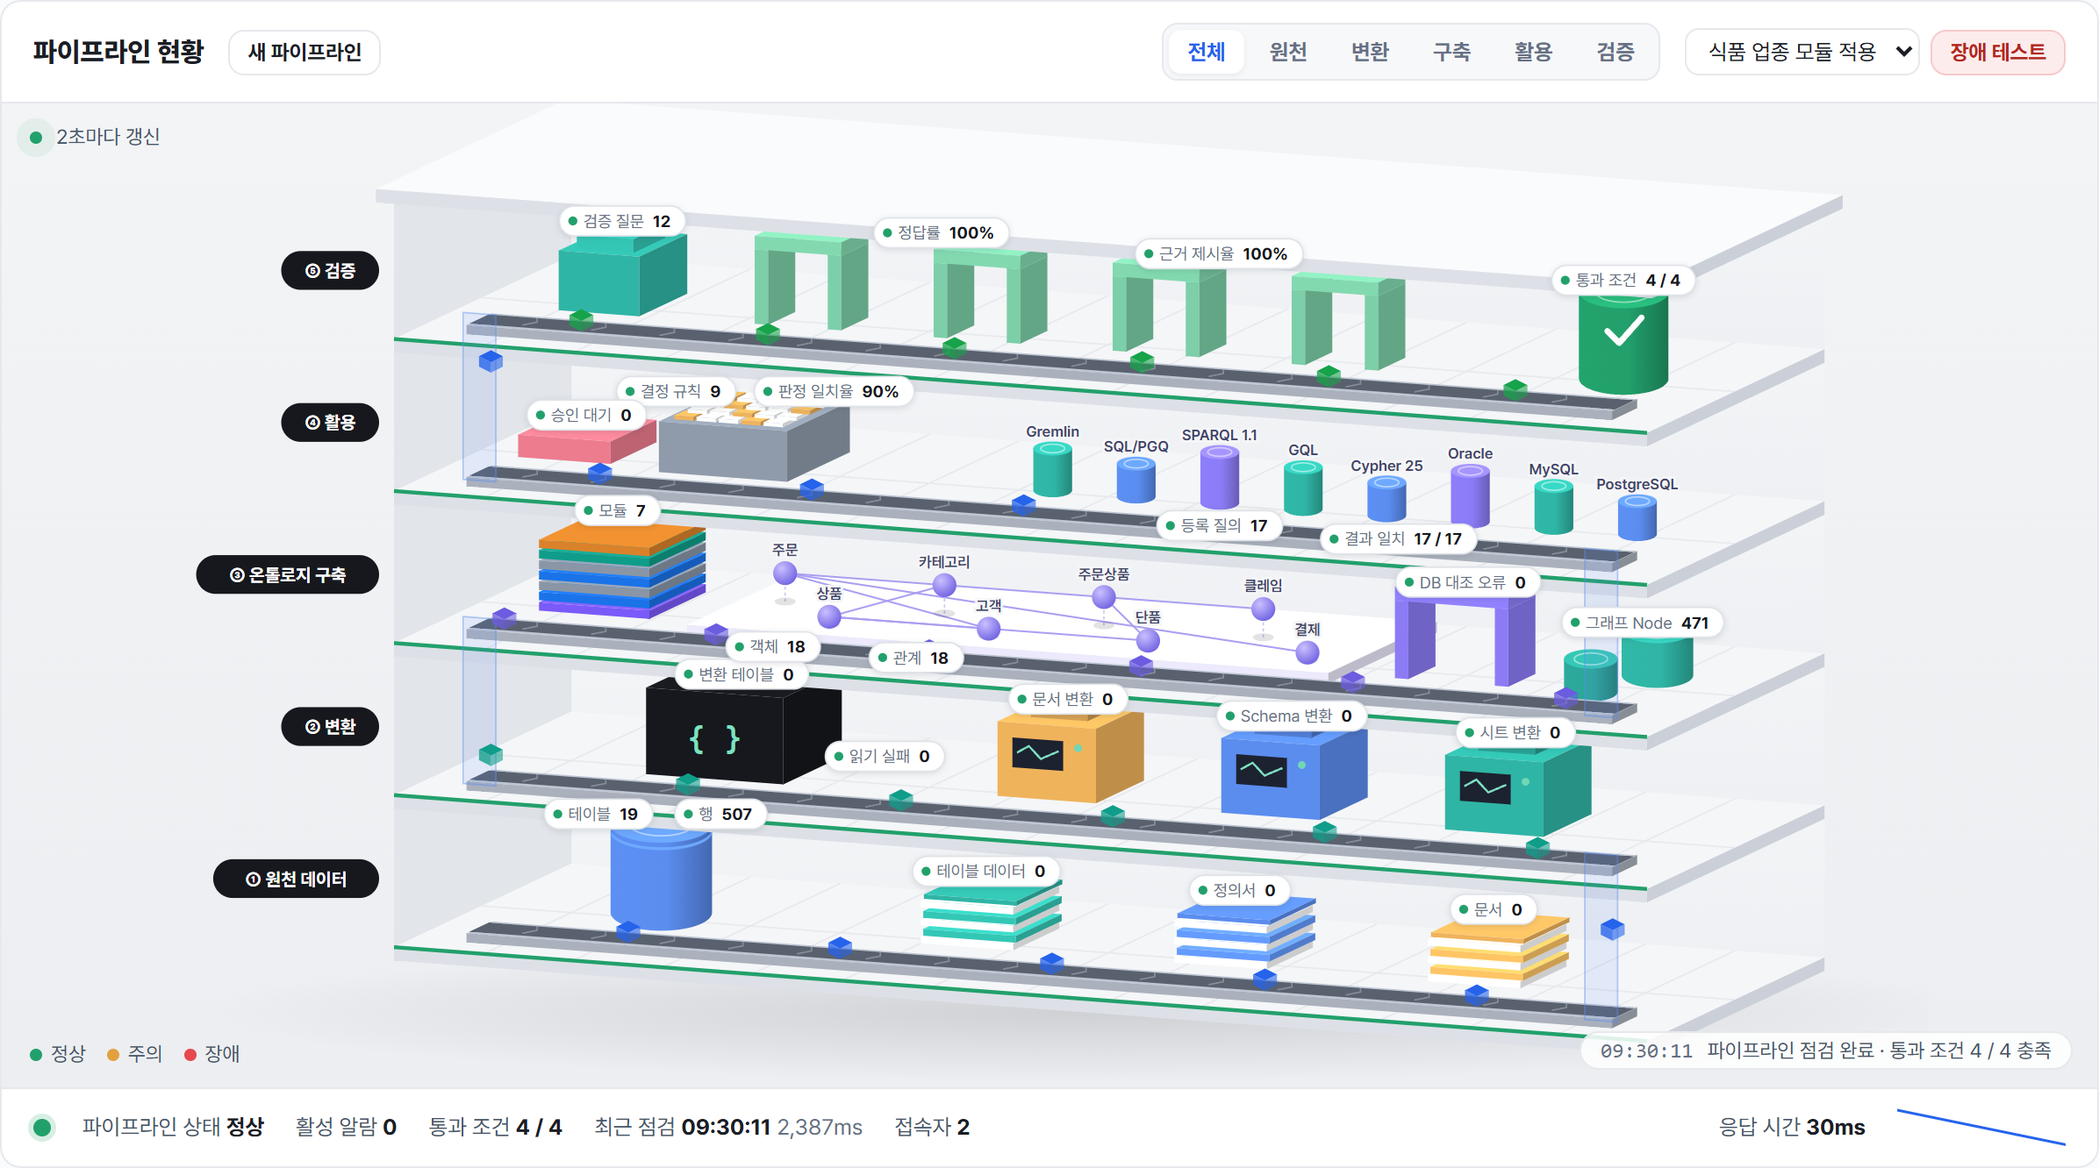
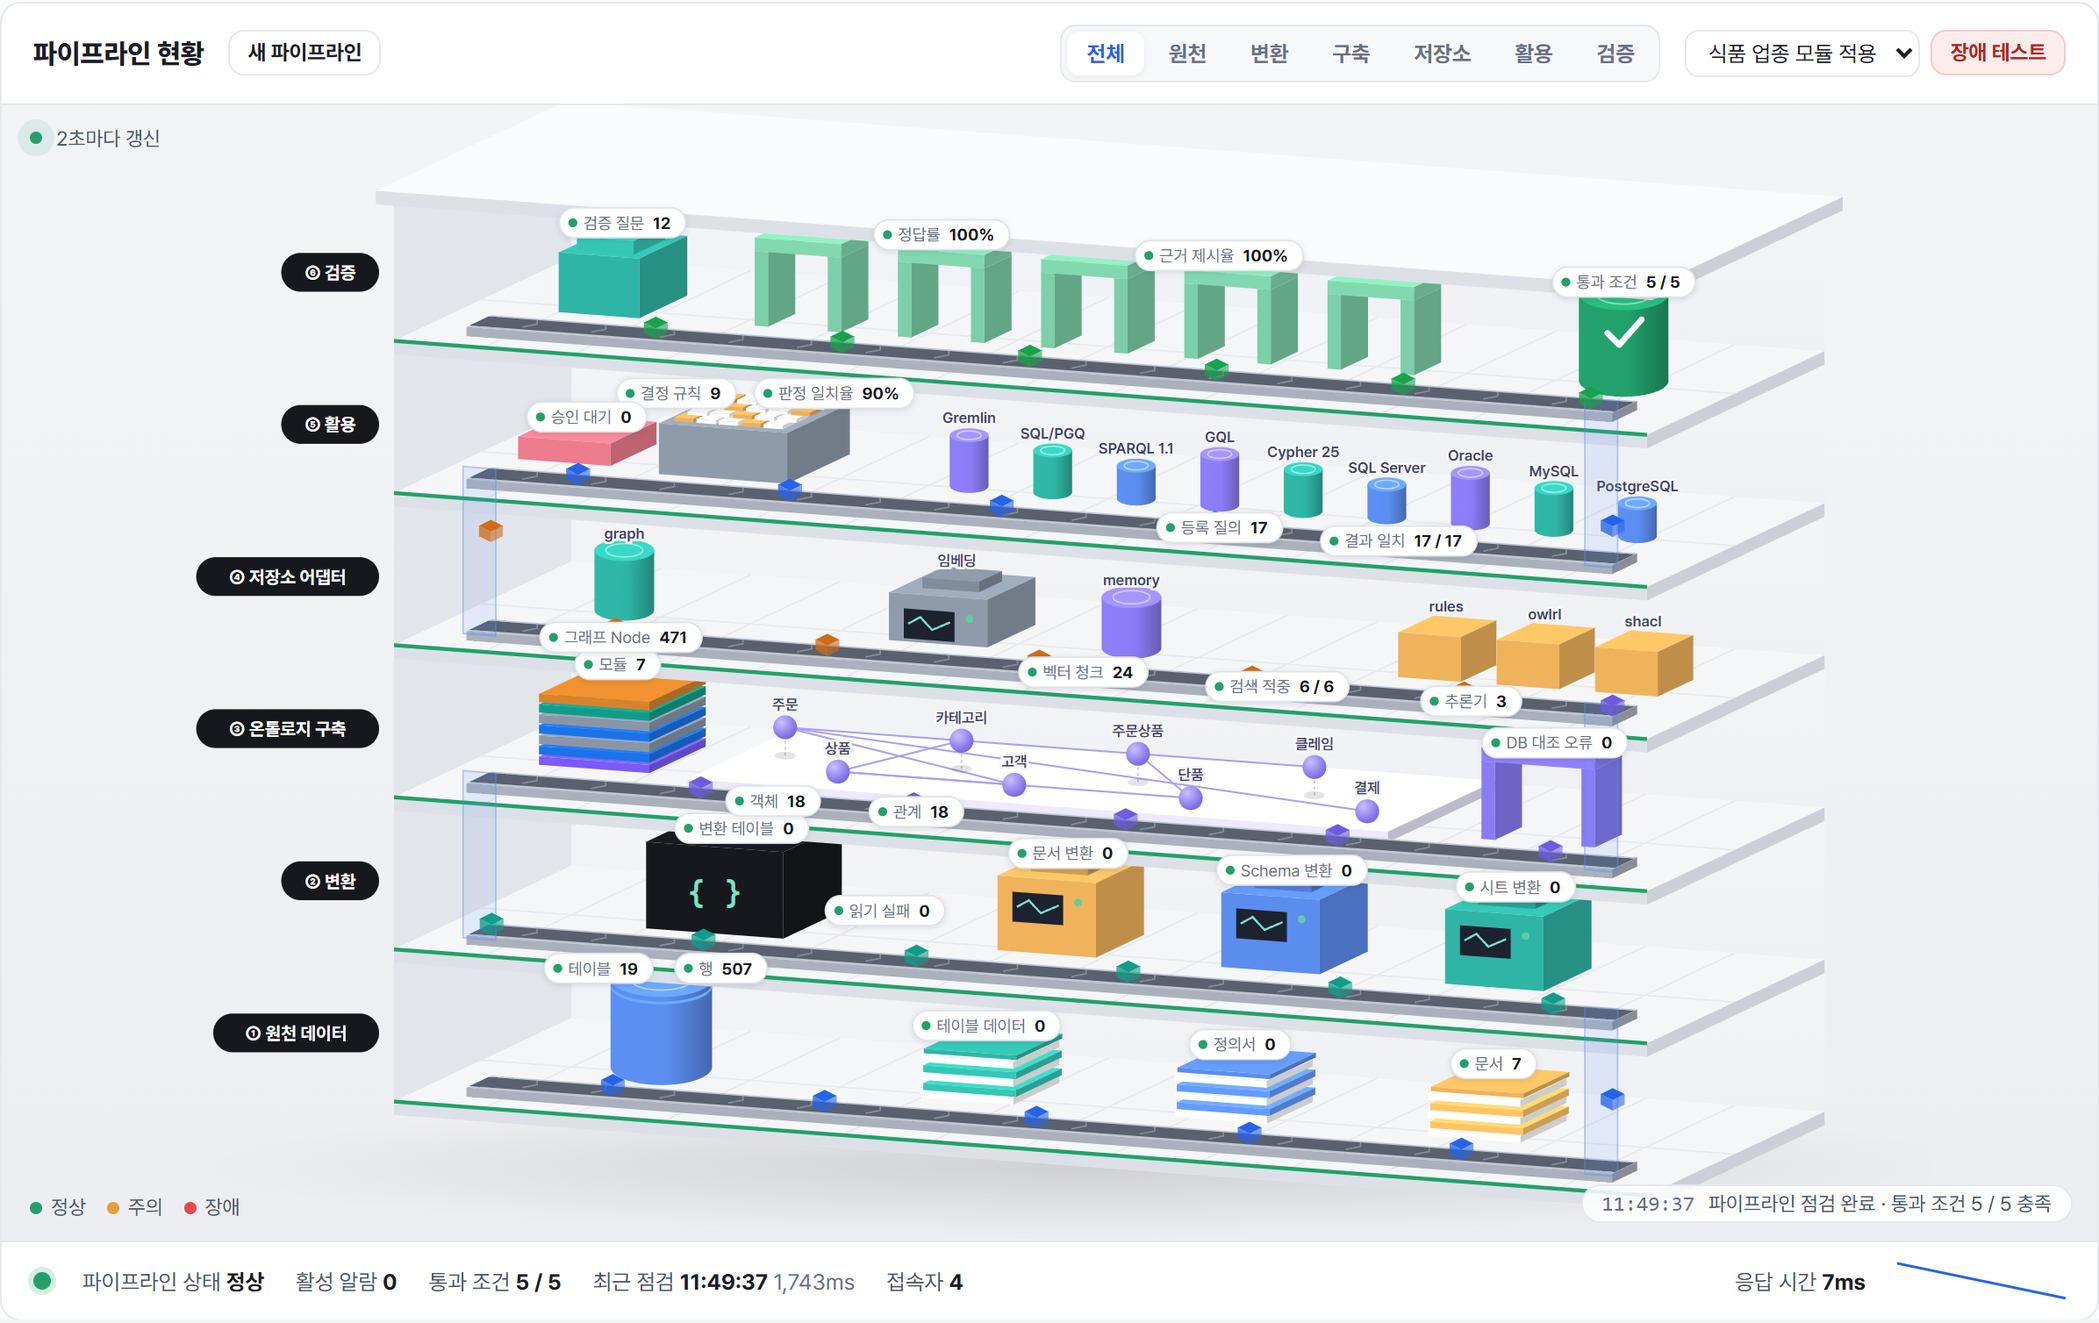
Order a search by the model and the question's own words, and show the new screens
A model's nearest passage was not always the one that says it: on the six example questions the right document came first
for four. A search now takes four times what it returns from the store and orders those by the model's score and the share
of the question's wording, which put all six first. Stores are still compared on the model alone.

The pictures showed the rest: the embedding label sat under the floor above, the active menu item could hide under the
footer, graph labels crowded each other. The README has the new screens, install extras, rule features and live servers.

diff --git a/src/xgen_space/web/static/app.js b/src/xgen_space/web/static/app.js
@@ -366,7 +366,15 @@
       return `<div class="ngroup"><button class="navg" data-act="navg" data-i="${i}" aria-expanded="${!shut}"><span>${no ? `<em>${no}</em> ` : ''}${h}${tag}</span>${ui('chevron')}</button>${shut ? '' : keys.map(link).join('')}</div>`;
     }).join('');
     const foot = `<div class="sfoot"><b>${esc(st.title)}</b><span>모듈 ${st.modules_on}개</span>${st.backends.map((b) => `<span class="be"><i class="dot"></i>${esc(b.name)} · ${esc(b.language.toUpperCase())}</span>`).join('')}</div>`;
+    const nav = $('#side .snav');
+    const kept = nav ? nav.scrollTop : 0;
     $('#side').innerHTML = `${BRAND}<div class="snav">${groups}</div>${foot}`;
+    $('#side .snav').scrollTop = kept;
+    if (S.tab !== renderSide.tab) {
+      renderSide.tab = S.tab;
+      const on = $('#side .nav.on');
+      if (on) on.scrollIntoView({ block: 'nearest' });
+    }
     $('#app').classList.toggle('slim', S.slim);
   }
 

diff --git a/src/xgen_space/web/static/graph.js b/src/xgen_space/web/static/graph.js
@@ -410,7 +410,7 @@ window.SpaceGraph = (function () {
         nodeProgramClasses: { border: Border }, edgeProgramClasses: { curved: kit.createEdgeCurveProgram({ arrowHead: { extremity: 'target', lengthToThicknessRatio: 6.5, widenessToThicknessRatio: 4.6 } }) },
         renderEdgeLabels: true, labelFont: 'Pretendard, "Malgun Gothic", sans-serif', labelSize: 12, labelWeight: '600',
         labelColor: { color: '#1b2330' }, edgeLabelFont: 'Pretendard, "Malgun Gothic", sans-serif', edgeLabelSize: 10.5, edgeLabelWeight: '500',
-        edgeLabelColor: { color: '#5b6675' }, labelGridCellSize: 70, labelDensity: 1.4,
+        edgeLabelColor: { color: '#5b6675' }, labelGridCellSize: 110, labelDensity: 1,
         labelRenderedSizeThreshold: prefs.nodeLabels || graph.order <= LABELS_ALL ? 0 : 11,
         minCameraRatio: 0.06, maxCameraRatio: 4, ...reducers(st),
       });

diff --git a/src/xgen_space/web/static/scene.js b/src/xgen_space/web/static/scene.js
@@ -118,7 +118,7 @@ window.SpaceScene = (() => {
       const word = (x, h, t) => { const [lx, ly] = P(x, 92, z + h + 8); return `<text x="${lx}" y="${ly}" text-anchor="middle" class="glabel">${esc(t)}</text>`; };
       let out = '';
       s.graphs.forEach((g, i) => { const x = 90 + i * 62; out += cyl(x, 92, z, 20, 40, C.teal) + word(x, 40, g); });
-      out += machine(280, 74, z, C.slate, 44) + word(313, 50, '임베딩');
+      out += machine(280, 74, z, C.slate, 32) + word(313, 38, '임베딩');
       s.vectors.forEach((g, i) => { const x = 430 + i * 62; out += cyl(x, 92, z, 20, 34, C.violet) + word(x, 34, g); });
       s.reasoners.forEach((g, i) => { const x = 620 + i * 66; out += box(x, 76, z, 42, 34, 30, C.amber) + word(x + 21, 32, g); });
       return out;

diff --git a/tools/render_screens.py b/tools/render_screens.py
@@ -1,10 +1,10 @@
 """Render the README images: the studio screens from the example studio, and the architecture figure.
 
-    python tools/render_screens.py            # needs playwright with chromium installed
+    python tools/render_screens.py            # needs playwright with chromium installed, and the [all] and [embed] extras
 
 Writes assets/screens/{library,query,decision,map}.png from `xspace preview`,
-assets/screens/{monitor,ontology,catalog,manage,draft}.png from `xspace serve` with the example files, and assets/architecture.png, all
-at 2x.
+assets/screens/{monitor,ontology,catalog,manage,draft,space-map,documents,search,adapters}.png from `xspace serve` with the
+example files, and assets/architecture.png, all at 2x.
 """
 from __future__ import annotations
 
@@ -28,7 +28,7 @@ from xgen_space.web.server import serve  # noqa: E402
 
 
 def _serve(config: Path, samples: Path) -> str:
-    data = DataOptions(samples=samples)
+    data = DataOptions(samples=samples, embedder={"kind": "fastembed"})
     with socket.socket() as s:
         s.bind(("127.0.0.1", 0))
         port = s.getsockname()[1]
@@ -76,6 +76,27 @@ def live_screens(page, base: str, out: Path) -> None:
     page.evaluate("document.fonts.ready")
     page.wait_for_timeout(400)
     page.locator("#draft").screenshot(path=str(out / "draft.png"))
+    page.goto(base + "/#map")
+    page.wait_for_selector("#mapgraph .kg-stage canvas", timeout=30000)
+    page.wait_for_timeout(1500)
+    page.screenshot(path=str(out / "space-map.png"))
+    page.goto(base + "/#docs")
+    page.wait_for_selector("#docgraph .kg-stage canvas", timeout=30000)
+    page.wait_for_timeout(1500)
+    page.screenshot(path=str(out / "documents.png"))
+    page.goto(base + "/#search")
+    page.wait_for_selector("[data-act=srex]", timeout=30000)
+    page.locator("[data-act=srex]").first.click()
+    page.wait_for_function("() => !document.querySelector('#main .spin') && document.querySelectorAll('#main .card').length > 1", timeout=30000)
+    page.wait_for_timeout(500)
+    page.screenshot(path=str(out / "search.png"))
+    page.goto(base + "/#adapters")
+    page.wait_for_selector("[data-act=adcheck]")
+    page.click("[data-act=adcheck]")
+    page.wait_for_function("() => !document.querySelector('[data-act=adcheck]').disabled", timeout=60000)
+    page.wait_for_function("() => document.getElementById('toast').hidden", timeout=8000)
+    page.wait_for_timeout(400)
+    page.screenshot(path=str(out / "adapters.png"))
 
 
 def main() -> None:

diff --git a/src/xgen_space/space.py b/src/xgen_space/space.py
@@ -19,7 +19,7 @@ from dataclasses import asdict, dataclass
 from pathlib import Path
 from typing import Any
 
-from xgen_space.embed import Embedder, open_embedder
+from xgen_space.embed import Embedder, open_embedder, shared_wording
 from xgen_space.vectors import MemoryStore, Point, VectorError, VectorStore, open_vector_store
 
 CHUNK = 520  # characters: a paragraph or two, what a person reads as one passage
@@ -203,6 +203,10 @@ DOCUMENT_MODULE = {
 }
 
 
+WIDER = 4  # a model's nearest passage is not always the one that says it, so a search looks at more than it returns
+WORDING = 0.3  # the share of the question's own words in the order; the model keeps the rest
+
+
 class Space:
     """Documents, one embedder and any number of vector stores. Every store holds the same chunks, so one can replace another
     and a question can be asked of all of them at once."""
@@ -302,8 +306,15 @@ class Space:
         if name not in self.stores:
             raise LookupError(f"벡터 저장소 {name}")
         vector = self.embedder.embed([text])[0]
-        return [{"id": h.id, "score": round(h.score, 4), "document": h.payload.get("document", ""), "section": h.payload.get("section", ""),
-                 "text": h.payload.get("text", ""), "store": name} for h in self.stores[name].search(self.collection, vector, k, where)]
+        semantic = self.embedder.semantic  # a wording embedder has counted the words already
+        found = self.stores[name].search(self.collection, vector, max(k * WIDER, k) if semantic else k, where)
+        hits = [{"id": h.id, "score": round(h.score, 4), "document": h.payload.get("document", ""), "section": h.payload.get("section", ""),
+                 "text": h.payload.get("text", ""), "store": name} for h in found]
+        if semantic:
+            for h in hits:
+                h["score"] = round((1 - WORDING) * h["score"] + WORDING * shared_wording(text, h["text"]), 4)
+            hits.sort(key=lambda h: -h["score"])  # stable: a tie stays in the store's order
+        return hits[:k]
 
     def compare(self, text: str, k: int = 5) -> dict:
         """The same question to every store, each with its own answer and how long it took."""

diff --git a/tests/test_vectors.py b/tests/test_vectors.py
@@ -346,3 +346,28 @@ def test_live_space_on_a_real_store():
     assert s.compare("운송장 번호", 3)["same"]
     s.stores["qdrant"].drop(s.collection)
     assert urllib.request.urlopen(value + "/collections", timeout=5).status == 200
+
+
+def test_the_question_s_own_words_settle_what_a_model_found_close():
+    class Near(HashEmbedder):
+        semantic = True  # says it reads meaning, and puts the wrong passage first
+
+        def embed(self, texts):
+            return [[1.0, 0.0] if "숨김" in t or "돌려" in t else [0.9, 0.44] for t in texts]
+
+    near = Near(256)
+    near.dim = 2
+    s = Space(near)
+    s.add({"id": "a", "name": "상품평", "text": "욕설이 들어간 상품평은 숨김 처리합니다."})
+    s.add({"id": "b", "name": "반품", "text": "포장을 뜯은 속옷은 반품할 수 없습니다."})
+    hits = s.search("포장을 뜯은 속옷도 돌려보낼 수 있나요", k=2)
+    assert [h["document"] for h in hits] == ["반품", "상품평"]
+    assert hits[0]["score"] > hits[1]["score"] and all(0 <= h["score"] <= 1 for h in hits)
+    assert s.compare("포장을 뜯은 속옷도 돌려보낼 수 있나요", k=2)["same"]  # the stores are still compared on the model alone
+
+
+def test_a_search_returns_what_it_was_asked_for_however_far_it_looked():
+    s = Space(HashEmbedder(256))
+    for i in range(8):
+        s.add({"id": f"d{i}", "name": f"문서{i}", "text": f"반품 기간 {i}일 안내입니다."})
+    assert len(s.search("반품 기간", k=3)) == 3

diff --git a/src/xgen_space/web/api.py b/src/xgen_space/web/api.py
@@ -1257,7 +1257,7 @@ class StudioSession(SpaceMixin):
         else:
             path = dsn[len("sqlite:///"):] if dsn.startswith("sqlite:///") else dsn
             if not Path(path).is_file():
-                raise ValueError("연결 주소를 확인할 수 없어 연결하지 못했습니다. postgresql://, mysql://, oracle://, mssql://, mssql:// "
+                raise ValueError("연결 주소를 확인할 수 없어 연결하지 못했습니다. postgresql://, mysql://, oracle://, mssql:// "
                                  "주소 또는 SQLite 파일 경로를 입력해 주세요.")
             b = open_backend({"kind": "sqlite", "path": str(Path(path).resolve())}, Path("."))
             where = f"SQLite {Path(path).name}"

diff --git a/src/xgen_space/embed.py b/src/xgen_space/embed.py
@@ -25,6 +25,15 @@ class EmbedError(RuntimeError):
     """The model could not be reached or answered with something that is not vectors."""
 
 
+def shared_wording(question: str, passage: str) -> float:
+    """How much of a question's wording a passage has, from 0 to 1. Pieces of two letters, so 뜯은 meets 뜯어 and a particle does not hide a word."""
+    def pieces(text: str) -> set[str]:
+        return {w[i:i + 2] for w in _WORD.findall(text.lower()) for i in range(max(len(w) - 1, 1))}
+
+    asked = pieces(question)
+    return len(asked & pieces(passage)) / len(asked) if asked else 0.0
+
+
 class Embedder:
     kind = ""
     name = ""

diff --git a/README.md b/README.md
@@ -103,7 +103,7 @@ xspace draft --dsn "$XSPACE_DSN" --name shop -o my-studio                       
 xspace serve my-studio/studio.yaml
 ```
 
-A database needs `pip install -e ".[postgres]"` (or `[mysql]`, `[oracle]`). A draft reads every table in full to
+A database needs `pip install -e ".[postgres]"` (or `[mysql]`, `[oracle]`, `[mssql]`). A draft reads every table in full to
 profile it, so point it at a copy or a replica with a read-only account, not at a busy production database.
 
 **3. Check it.**
@@ -297,6 +297,10 @@ form for one says so before it runs.
 
 ## Swap anything: the ports
 
+<p align="center">
+  <img src="assets/screens/adapters.png" alt="Adapters screen: every swappable part, with the tests that say a swap changed nothing" width="100%">
+</p>
+
 Every part a deployment might want different is a port with a small interface, a registry, and a test that says the swap
 changed nothing.
 
@@ -331,6 +335,16 @@ A document that comes in, through the catalog or `space.documents`, goes two way
 
 - **Vectors.** It is cut at sections and sentences, embedded, and written to every vector store. Only what changed is embedded; a store that missed a round catches up on the next one.
 - **Document ontology.** It becomes rows of document, section and concept. Concepts are the names the definitions give (objects, properties, allowed values, decisions, glossary terms) plus the words a document keeps returning to, found without a model. The rows run on the same engine as the domain ontology, so the same compilers and the same conformance apply.
+
+<table>
+  <tr>
+    <td width="50%"><img src="assets/screens/documents.png" alt="Document ontology screen: documents, sections and concepts as a graph, tied to the definitions they mention"></td>
+    <td width="50%"><img src="assets/screens/search.png" alt="Search screen: passages found by meaning, with the definitions they name"></td>
+  </tr>
+</table>
+
+A search takes more passages from the store than it returns and orders them by the model's score and the question's own
+words, since the nearest passage to a model is not always the one that says it.
 
 Concepts tie the two together. `xspace search` returns the passages and the definitions a question names, the object screen
 shows the sections that mention an object, and the map shows which queries a document touches. Relations between concepts are
@@ -646,6 +660,22 @@ studio.run("myOrders", role="customer_agent", principal={"customer_id": "C001"})
 Decision tables export to GoRules JDM (`decide.zen.to_jdm`) and run on the ZEN engine when `use_zen=True`;
 the tests check that ZEN and the built-in engine agree on every case.
 
+Rules stay readable as they grow. All of this is in the module file, and the 규칙 · 지표 screen shows it:
+
+| In a module | What it does |
+|---|---|
+| `hit_policy: priority` | The highest rule wins, and the answer says which rules it overrode |
+| `parameters` | One named value, read as `@name` by rules and expressions; a customer module changes it alone |
+| `metrics` | A number with its formula, denominator, time basis and owner |
+| `conflicts` | Two sources that disagree stay open until a person picks one, and the pick is reviewed like any change |
+| transitions | A state change with a guard, side effects and `after`; an action is asked again right before it runs |
+| `view` | An object defined by a query, in the source, or carried along with `inline: true` where the source cannot be written |
+| `format: YYYYMMDD` | Dates kept as text read as dates |
+| `period`, `current(link.prop)` | The row valid now, out of rows valid for a period |
+| scoped roles | Reads and writes limited to the signed-in organisation, closed when the scope is missing |
+
+Each decision table is also read for what it leaves open: overlaps, rules that can never apply, and inputs no rule covers.
+
 Actions check what is given (`{type, required, min, max, values, pattern, max_length}` per parameter), and may send
 an external request after the change is written, only to hosts the studio file allows (`actions: {call_hosts:
 [...]}`); a failed request puts the row back. An executed action can be rolled back, if nothing has changed the row
@@ -765,6 +795,10 @@ change set.
 
 ## The data map
 
+<p align="center">
+  <img src="assets/screens/space-map.png" alt="Space map screen: files, tables, documents, vector stores, objects and queries as one graph, with a side panel for the picked node" width="100%">
+</p>
+
 ```python
 from xgen_space.catalog import from_ontology
 cat = from_ontology(studio.onto)                  # tables, columns, objects, properties, queries, decisions, roles
@@ -840,16 +874,27 @@ From a checkout (the package is not on PyPI yet):
 pip install -e .                 # core, zero deps: SQLite, JSON, the IR, every compiler, decisions, rules
 pip install -e ".[all]"          # + PyYAML, rdflib, sqlglot, pySHACL, owlrl, ZEN, MCP, openpyxl
 pip install -e ".[postgres]"     # + psycopg      ("[neo4j]" for the Neo4j driver)
-pip install -e ".[mysql]"        # + PyMySQL, sqlglot      ("[oracle]" for oracledb)
+pip install -e ".[mysql]"        # + PyMySQL, sqlglot      ("[oracle]" for oracledb, "[mssql]" for SQL Server)
 pip install -e ".[pdf]"          # + pypdf, for reading PDF documents
 pip install -e ".[xlsx]"         # + openpyxl, for drafting from Excel workbooks
 pip install -e ".[gremlin]"      # + gremlinpython, for Gremlin Server
+pip install -e ".[embed]"        # + fastembed, a multilingual embedding model on this machine
+pip install -e ".[reasonable]"   # + reasonable, a fast OWL RL engine, off by default
 ```
+
+Qdrant and any OpenAI-shaped embedding service need no package: they are spoken to over HTTP.
 
 Run the demo from a checkout with only PyYAML and rdflib installed:
 
 ```bash
 python examples/commerce/demo.py
+```
+
+The tests need no server. With Docker, the same tests run against real ones, one at a time:
+
+```bash
+python tools/run_live.py                  # postgres, mysql, oracle, mssql, fuseki, neo4j, gremlin, qdrant, pgvector
+python tools/run_live.py pgvector qdrant  # some of them
 ```
 
 ## Command line

diff --git a/CHANGELOG.md b/CHANGELOG.md
@@ -27,6 +27,7 @@
 - Conditional aggregates: `sum(link.prop where cond)` in computed properties and `{"sum": ..., "where": ...}` in query columns,
   on every language. Gremlin compiles optional links and computed properties. GQL and SQL/PGQ compile link aggregates and date
   functions; SQL/PGQ is verified on Oracle 23, GQL is checked as text only. A column named like its alias is valid SPARQL now.
+- Search orders what the store found by the model's score and the question's own words. Stores are still compared on the model alone.
 - Decisions: hit policy `priority` shows what it overrode, and `findings` report overlaps, unreachable rules and input gaps.
   `parameters` are one named value read as `@name` by rules and expressions, changed alone by a customer module. Dates kept as
   text read as dates with `format: YYYYMMDD`, and `period` with `current(link.prop)` gives the row valid now. Scoped roles limit
